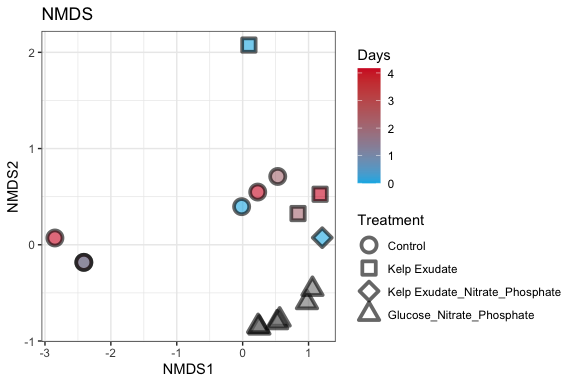
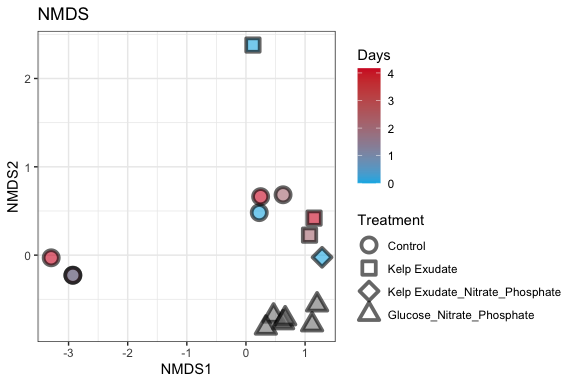
knit new phyloseq figures

diff --git a/Scripts/2021_phyloseq.md b/Scripts/2021_phyloseq.md
@@ -620,7 +620,7 @@ ps_min <-  rarefy_even_depth(sub_ps, sample.size = min(sample_sums(sub_ps)))
 
     ## ...
 
-    ## 318OTUs were removed because they are no longer 
+    ## 317OTUs were removed because they are no longer 
     ## present in any sample after random subsampling
 
     ## ...
@@ -724,46 +724,62 @@ nmds_min <- ordinate(ps_min, method = "NMDS",  distance = "bray") # stress = 0.0
 
     ## Square root transformation
     ## Wisconsin double standardization
-    ## Run 0 stress 0.1136096 
-    ## Run 1 stress 0.1261284 
-    ## Run 2 stress 0.10091 
+    ## Run 0 stress 0.07393132 
+    ## Run 1 stress 0.07393132 
     ## ... New best solution
-    ## ... Procrustes: rmse 0.1509595  max resid 0.4518629 
-    ## Run 3 stress 0.1136093 
-    ## Run 4 stress 0.08923725 
+    ## ... Procrustes: rmse 5.520266e-06  max resid 1.208619e-05 
+    ## ... Similar to previous best
+    ## Run 2 stress 0.09564988 
+    ## Run 3 stress 0.07393132 
+    ## ... Procrustes: rmse 2.904864e-06  max resid 6.189617e-06 
+    ## ... Similar to previous best
+    ## Run 4 stress 0.07393132 
+    ## ... Procrustes: rmse 6.475962e-06  max resid 1.394217e-05 
+    ## ... Similar to previous best
+    ## Run 5 stress 0.07393132 
+    ## ... Procrustes: rmse 1.749332e-06  max resid 4.658794e-06 
+    ## ... Similar to previous best
+    ## Run 6 stress 0.07393132 
+    ## ... Procrustes: rmse 2.122062e-06  max resid 5.570684e-06 
+    ## ... Similar to previous best
+    ## Run 7 stress 0.07393132 
+    ## ... Procrustes: rmse 4.472535e-06  max resid 1.06865e-05 
+    ## ... Similar to previous best
+    ## Run 8 stress 0.09590011 
+    ## Run 9 stress 0.3504346 
+    ## Run 10 stress 0.07393132 
     ## ... New best solution
-    ## ... Procrustes: rmse 0.1220045  max resid 0.3687839 
-    ## Run 5 stress 0.08923724 
+    ## ... Procrustes: rmse 5.32841e-06  max resid 1.169994e-05 
+    ## ... Similar to previous best
+    ## Run 11 stress 0.07393132 
+    ## ... Procrustes: rmse 5.259566e-06  max resid 1.209681e-05 
+    ## ... Similar to previous best
+    ## Run 12 stress 0.07393132 
+    ## ... Procrustes: rmse 1.375113e-05  max resid 3.148131e-05 
+    ## ... Similar to previous best
+    ## Run 13 stress 0.07393132 
+    ## ... Procrustes: rmse 1.122373e-05  max resid 2.628132e-05 
+    ## ... Similar to previous best
+    ## Run 14 stress 0.07393132 
+    ## ... Procrustes: rmse 2.545885e-05  max resid 5.826423e-05 
+    ## ... Similar to previous best
+    ## Run 15 stress 0.09564932 
+    ## Run 16 stress 0.07393132 
     ## ... New best solution
-    ## ... Procrustes: rmse 4.378312e-05  max resid 0.0001057711 
+    ## ... Procrustes: rmse 3.588737e-06  max resid 8.728146e-06 
     ## ... Similar to previous best
-    ## Run 6 stress 0.08923724 
-    ## ... New best solution
-    ## ... Procrustes: rmse 7.335396e-06  max resid 1.889561e-05 
+    ## Run 17 stress 0.07393132 
+    ## ... Procrustes: rmse 9.965449e-06  max resid 2.329225e-05 
     ## ... Similar to previous best
-    ## Run 7 stress 0.08923724 
-    ## ... New best solution
-    ## ... Procrustes: rmse 4.332529e-06  max resid 9.776252e-06 
+    ## Run 18 stress 0.07393132 
+    ## ... Procrustes: rmse 8.873233e-06  max resid 1.806245e-05 
     ## ... Similar to previous best
-    ## Run 8 stress 0.1009101 
-    ## Run 9 stress 0.1004482 
-    ## Run 10 stress 0.10091 
-    ## Run 11 stress 0.1009101 
-    ## Run 12 stress 0.08923724 
-    ## ... Procrustes: rmse 1.180375e-05  max resid 2.707126e-05 
+    ## Run 19 stress 0.07393132 
+    ## ... Procrustes: rmse 1.66685e-06  max resid 3.275297e-06 
     ## ... Similar to previous best
-    ## Run 13 stress 0.100401 
-    ## Run 14 stress 0.08923724 
-    ## ... Procrustes: rmse 6.611401e-06  max resid 1.69546e-05 
+    ## Run 20 stress 0.07393132 
+    ## ... Procrustes: rmse 9.543589e-06  max resid 2.01998e-05 
     ## ... Similar to previous best
-    ## Run 15 stress 0.100401 
-    ## Run 16 stress 0.08923725 
-    ## ... Procrustes: rmse 4.064698e-05  max resid 0.0001022512 
-    ## ... Similar to previous best
-    ## Run 17 stress 0.1136094 
-    ## Run 18 stress 0.246022 
-    ## Run 19 stress 0.1136094 
-    ## Run 20 stress 0.100401 
     ## *** Solution reached
 
     ##              Experiment    Location Temperature Depth Timepoint
@@ -971,8 +987,7 @@ richness](https://www.jstor.org/stable/4615964?seq=1#metadata_info_tab_contents)
 ``` r
 richness <- estimate_richness(ps_min, measures = c("Chao1", "Shannon")) %>% 
   rownames_to_column(., var = "DNA_ID") %>% 
-  mutate_at(vars(DNA_ID), str_replace_all, pattern = "171.", "171-") %>% 
-   mutate_at(vars(DNA_ID), str_replace_all, pattern = "172.", "172-")
+  mutate_at(vars(DNA_ID), str_replace_all, pattern = "X144_", "144_")
 ```
 
 Let’s add the sample metadata into this dataframe
@@ -1210,18 +1225,18 @@ tax.df <-  as.data.frame(tax.tab)
 #then combine the data frames
 custom.tab <- tax.df %>% 
   rownames_to_column(., var = "asv") %>% 
-  left_join(., ps_std.df %>% rownames_to_column(., var = "asv")) %>% 
+  left_join(., ps_std.df %>% rownames_to_column(., var = "asv")) %>%
   #create a new index of that combines the  class, order, family, and genus values, you can play around here!!
   mutate(#pcofg = paste(Phylum, "_", Class, "_", Order,"_", Family, "_", Genus),
-         # pcof = paste(Phylum, "_", Class, "_", Order,"_", Family,),
+        #pcof = paste(Phylum, "_", Class, "_", Order,"_", Family),
          pco = paste(Phylum, "_", Class, "_", Order)) %>% 
   select(-c(asv:Genus)) %>% 
-  # select(pcof,everything()) %>% 
-  # group_by(pcof) %>% 
+  #select(pcof,everything()) %>% 
+  #group_by(pcof) %>% 
   select(pco,everything()) %>% 
   group_by(pco) %>% 
   #here we are combining the relative abundances based on our grouping
-  #summarise_at(vars(contains(c("ASH171", "ASH172"))), sum, na.rm = T) %>% 
+  summarise_at(vars(contains(c("144"))), sum, na.rm = T) %>%
   ungroup()
 ```
 
